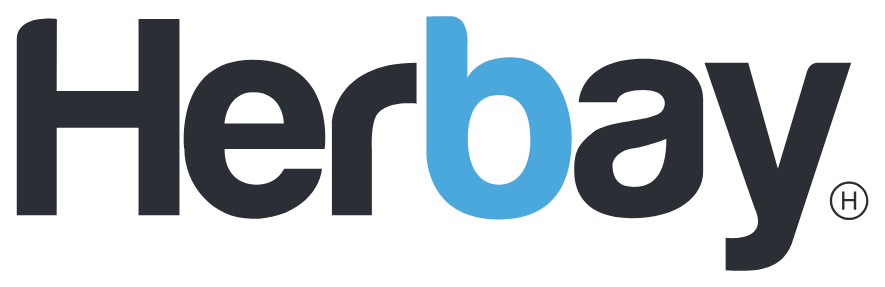
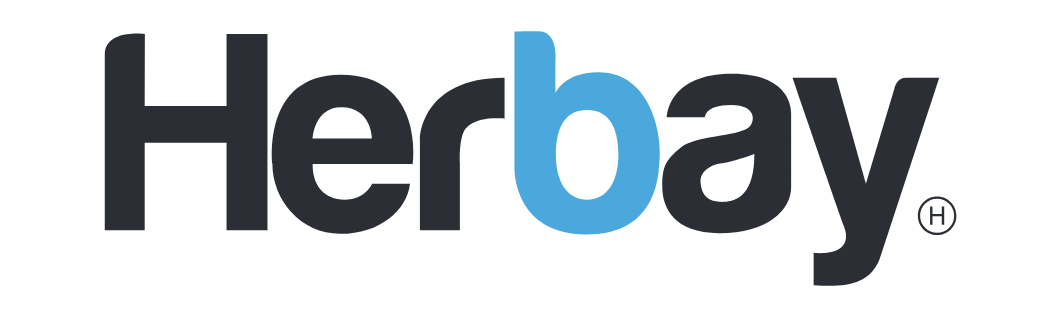
全協賛ロゴ統一処理＋CROSSFM「協力」ラベル復活
- 中協賛・協賛 全18ロゴを sharp.trim() で白背景除去
- 統一padding (短辺12%) とアスペクト整形 (1.3〜5.5:1 landscape化)
- MEAT PLUS/アートアンドヘルスケアは padding追加で視覚的サイズダウン
- CROSS FM は「協力」和文ラベルを COOPERATION と併記

Changed region(s): [[0.0, 0.0557, 1.0, 0.9477], [0.4881, 0.6132, 0.5186, 0.7247]]

diff --git a/index.html b/index.html
@@ -911,10 +911,17 @@ a { color: inherit; text-decoration: none; }
   margin-bottom: 28px;
 }
 .sponsor-tier-head {
-  display: flex; align-items: center; justify-content: center;
+  display: flex; align-items: baseline; justify-content: center; gap: 10px;
   margin-bottom: 14px;
   padding-bottom: 10px;
   border-bottom: 1px solid rgba(255,212,117,0.18);
+}
+.sponsor-tier-label {
+  font-size: 1rem; font-weight: 900; letter-spacing: 0.14em;
+  font-family: 'Noto Serif JP', 'Noto Sans JP', serif;
+  background: linear-gradient(135deg, #fff 0%, #a8ffd8 70%);
+  -webkit-background-clip: text; -webkit-text-fill-color: transparent;
+  background-clip: text;
 }
 .sponsor-tier-en {
   font-size: 0.75rem; font-weight: 900; letter-spacing: 0.28em;
@@ -1350,7 +1357,7 @@ a.sponsor-card:hover {
       { key: 'major', en: 'MAJOR SPONSOR', cls: 'tier-major' },
       { key: 'middle', en: 'MIDDLE SPONSOR', cls: 'tier-middle' },
       { key: 'regular', en: 'SPONSOR', cls: 'tier-regular' },
-      { key: 'cooperation', en: 'COOPERATION', cls: 'tier-cooperation' }
+      { key: 'cooperation', label: '協力', en: 'COOPERATION', cls: 'tier-cooperation' }
     ];
     var hasAny = false;
     if (sp && typeof sp === 'object' && !Array.isArray(sp)) {
@@ -1379,9 +1386,11 @@ a.sponsor-card:hover {
     root.innerHTML = tiers.map(function(t) {
       var items = (sp[t.key] || []);
       if (!items.length) return '';
+      var labelHtml = t.label ? '<span class="sponsor-tier-label">' + t.label + '</span>' : '';
       return (
         '<div class="sponsor-tier ' + t.cls + '">' +
           '<div class="sponsor-tier-head">' +
+            labelHtml +
             '<span class="sponsor-tier-en">' + t.en + '</span>' +
           '</div>' +
           '<div class="sponsors-grid">' +
